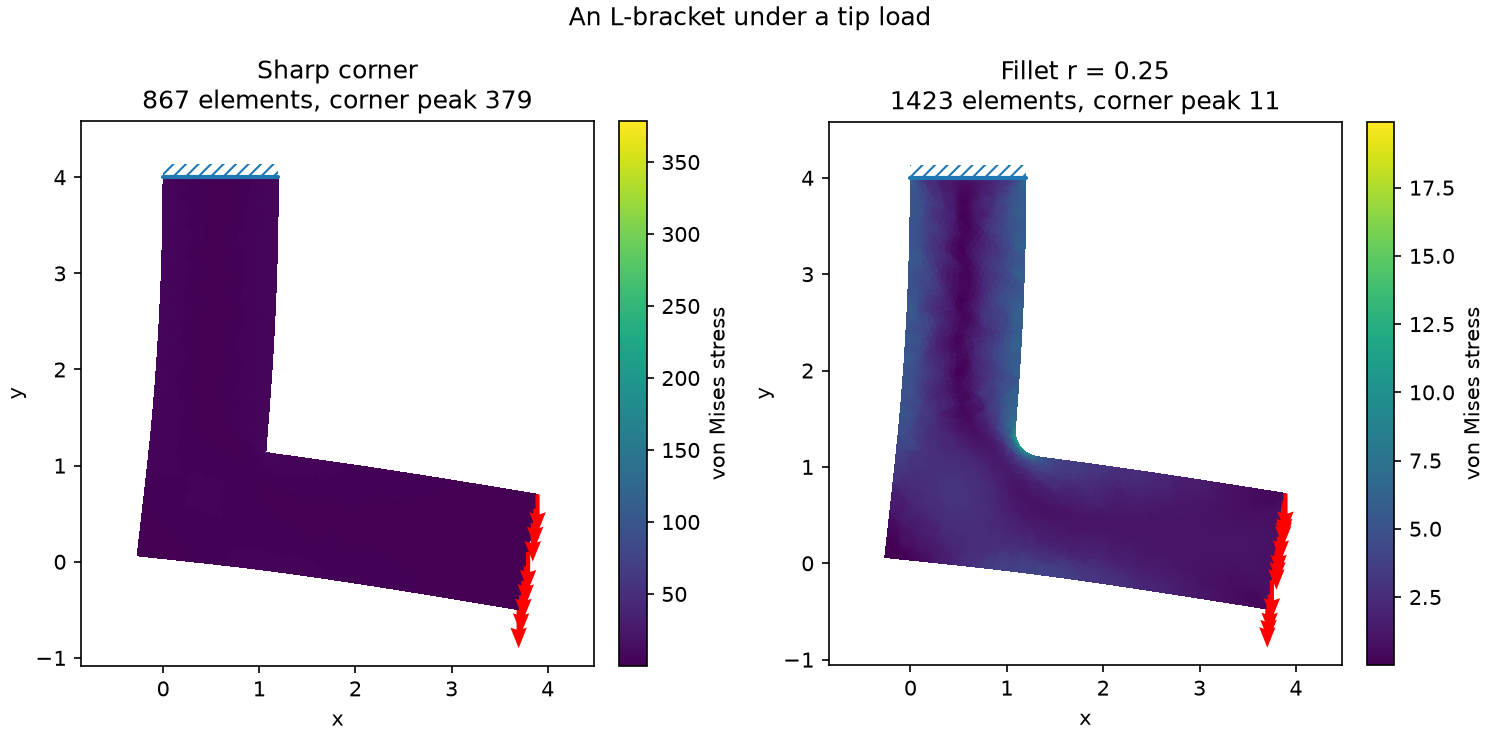
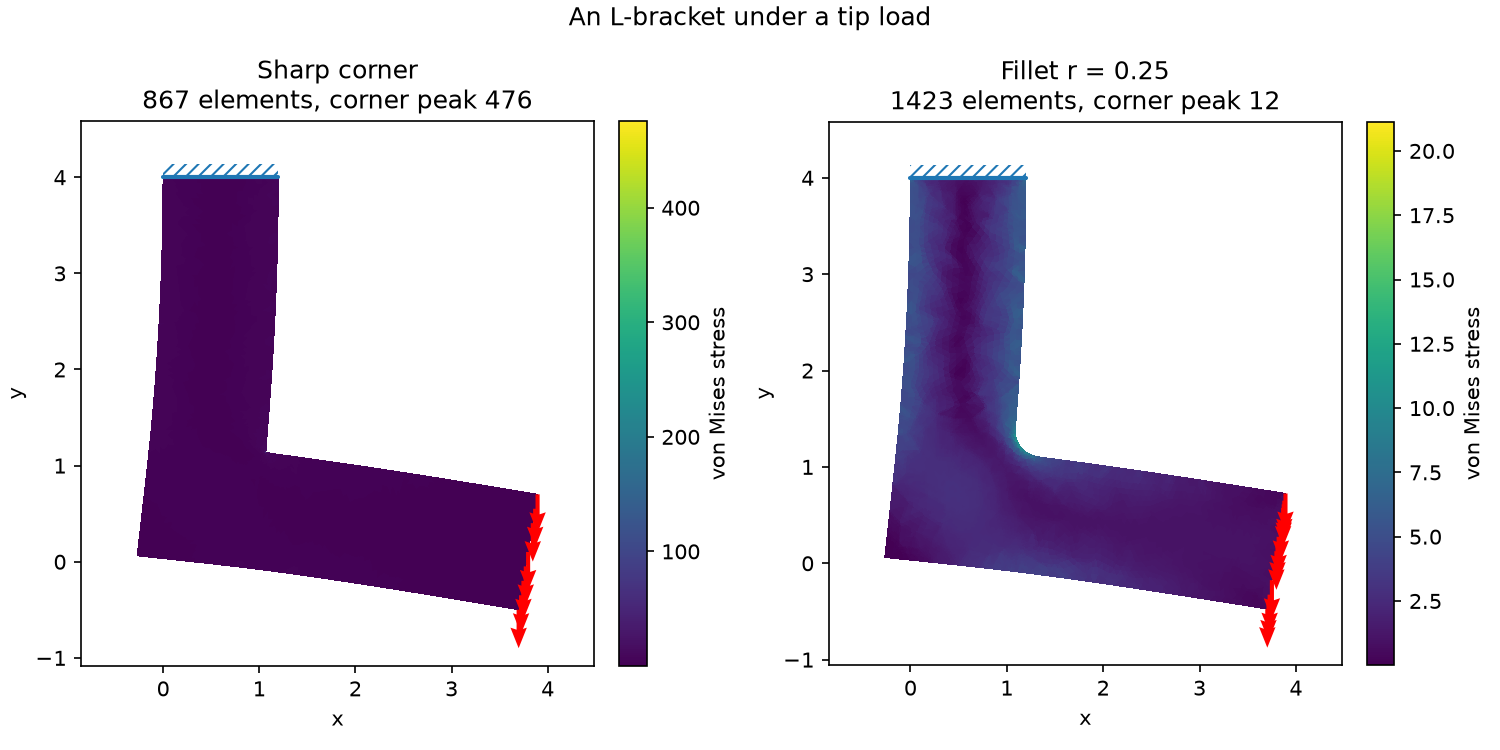
Let Plotter.plot take a Solution, so P2 rendering is the default
Passing a Solution as plot's first argument supplies its own mesh and space, so a P2
or curved solve renders faithfully (on the element tessellation, curved boundaries
following their true curve) without the caller threading space= through by hand. An
explicit space still overrides it, and warp=True deforms by the solution's own
displacement. A raw mesh keeps the low-level, field-agnostic path unchanged.

Adopt it in the bracket demo and switch its recovery to L2 (nodal_von_mises('l2'))
for a smoother field, with the tracked corner peak reading the same recovery so the
number and the colour agree. Figures regenerated.

diff --git a/fem/plot/plotter.py b/fem/plot/plotter.py
@@ -12,6 +12,7 @@ from fem.typing import FloatArray
 if TYPE_CHECKING:
     from fem.boundary import BoundaryConditions
     from fem.mesh.mesh import Mesh
+    from fem.solution import Solution
     from fem.space import FunctionSpace
 
 from fem.plot.helpers import (
@@ -110,7 +111,7 @@ class Plotter:
     # function for plotting at a specific index
     def plot(
         self,
-        mesh: 'Mesh',
+        mesh: "Mesh | Solution",
         values: FloatArray | Sequence[float] | None = None,
         mode: PlotMode | str = PlotMode.MESH,
         idx: tuple[int, int] = (0, 0),
@@ -126,9 +127,15 @@ class Plotter:
         contour: int | None = None,
         space: 'FunctionSpace | None' = None,
         subdivisions: int = 3,
-        warp: 'FloatArray | None' = None,
+        warp: 'FloatArray | bool | None' = None,
     ) -> Any:
         """Draw `values` on `mesh` into the subplot at `idx`.
+
+        `mesh` may be a `Solution` instead of a bare `Mesh`. It then supplies both its mesh
+        and its `space`, so a P2 or curved solve renders faithfully without passing `space=`
+        by hand (an explicit `space` still overrides it), and `warp=True` deforms the field
+        by the solution's own displacement. This is the ergonomic default; a raw mesh keeps
+        the low-level, field-agnostic path below.
 
         `label` names the quantity on the colorbar (colored mode); a colorbar is built
         once per subplot, so it is read on the call that first draws there and ignored
@@ -157,12 +164,17 @@ class Plotter:
         `warp` is an optional nodal displacement `(n_nodes, spatial)` that tessellates the
         deformed configuration, so a P2 stress field draws on the warped shape (the
         higher-order counterpart of plotting on `deformed_mesh()`). Only meaningful with a
-        tessellating `space`.
+        tessellating `space`. Pass `warp=True` (with a Solution as the first argument) to
+        deform by that solution's own displacement.
 
         Returns the recolourable collection for the colored and solid modes (the
         artist an animation updates in place across frames), and `None` otherwise.
         """
         mode = PlotMode(mode)  # accepts PlotMode or its value; unknown raises ValueError
+        # The first argument may be a Solution, which carries its own mesh and space, so
+        # the common "plot my solve" call renders a P2 or curved field faithfully with no
+        # `space=` to remember. A raw mesh keeps the explicit, field-agnostic path.
+        mesh, space, warp = self._resolve_target(mesh, space, warp)
         ax = self.axs[idx]
         if clear:
             ax.clear()
@@ -211,6 +223,30 @@ class Plotter:
         if empty:
             ax.axis('off')
         return artist
+
+    def _resolve_target(
+        self, target: "Mesh | Solution",
+        space: 'FunctionSpace | None', warp: 'FloatArray | bool | None',
+    ) -> "tuple[Mesh, FunctionSpace | None, FloatArray | None]":
+        '''Let `plot`'s first argument be a Solution, not only a Mesh.
+
+        A Solution carries the mesh its field lives on and the space that numbers it, so
+        passing one draws a P2 or curved solve faithfully without the caller threading
+        `space=` through by hand; an explicit `space` still wins. `warp=True` deforms by
+        the solution's own displacement, the common case for an elastic field. A raw mesh
+        is returned unchanged, so the low-level field-agnostic path is untouched.
+        '''
+        from fem.solution import FieldSolution, Solution
+        if not isinstance(target, Solution):
+            if warp is True:
+                raise ValueError('warp=True needs a Solution as the first argument, not a mesh')
+            return target, space, (None if warp is False else warp)
+        resolved_space = space if space is not None else target.space
+        if warp is True:
+            if not isinstance(target, FieldSolution):
+                raise ValueError('warp=True needs a Solution carrying a displacement field u')
+            warp = target.u.reshape(-1, target.n_components)
+        return target.mesh, resolved_space, (None if warp is False else warp)
 
     def overlay_supports(
         self,

diff --git a/tests/test_plotter.py b/tests/test_plotter.py
@@ -434,3 +434,69 @@ def test_warp_tessellates_the_deformed_configuration():
     plotter.plot(mesh, space.node_coords[:, 0], mode='colored', space=space, warp=displacement)
     assert plotter.get_ax().has_data()
     plotter.close()
+
+
+# -- a Solution supplies its own space, so P2 rendering needs no space= ---------
+
+
+def _p2_scalar_solution(n=5):
+    """A ScalarFieldSolution on a P2 space, so its per-node field needs the space to draw."""
+    from fem.solution import ScalarFieldSolution
+    mesh, space = _p2_square(n)
+    u = space.node_coords[:, 0] ** 2
+    return ScalarFieldSolution(mesh, 1, u, flux=np.zeros((len(mesh.elements), 2)),
+                               element_type=QuadraticTriangleElement), space
+
+
+def test_a_solution_supplies_its_own_space():
+    """Passing the solution draws its P2 field faithfully with no `space=`: the same
+    per-node field on the bare mesh (no space) is rejected, so the solution is what
+    carried the space that made it renderable."""
+    solution, space = _p2_scalar_solution()
+    field = solution.u                                         # length n_nodes
+
+    plotter = Plotter(1, 1)
+    plotter.plot(solution, field, mode='colored', idx=(0, 0))
+    assert plotter.get_ax((0, 0)).has_data()
+    plotter.close()
+
+    with pytest.raises(ValueError):
+        Plotter(1, 1).plot(solution.mesh, field, mode='colored')   # bare mesh, no space
+
+
+def test_an_explicit_space_overrides_the_solutions():
+    """A `space=` passed alongside a solution wins, so a caller can still draw the field
+    on a different discretization."""
+    solution, space = _p2_scalar_solution()
+    plotter = Plotter(1, 1)
+    plotter.plot(solution, solution.u, mode='colored', idx=(0, 0), space=space)
+    assert plotter.get_ax((0, 0)).has_data()
+    plotter.close()
+
+
+def test_warp_true_deforms_by_the_solutions_own_displacement():
+    """`warp=True` with a solution draws the field on the shape deformed by that
+    solution's displacement, so an elastic field lands on the warped body with no explicit
+    displacement array."""
+    from fem.solution import ElasticSolution
+    mesh, space = _p2_square()
+    vspace = FunctionSpace(mesh, QuadraticTriangleElement, n_components=2)
+    u = np.column_stack([0.1 * vspace.node_coords[:, 1],
+                         -0.05 * vspace.node_coords[:, 0]]).ravel()
+    n_el = len(mesh.elements)
+    solution = ElasticSolution(mesh, 2, u, strain=np.zeros((n_el, 3, 3)),
+                               stress=np.zeros((n_el, 3, 3)), compliance=np.zeros(n_el),
+                               element_type=QuadraticTriangleElement)
+
+    plotter = Plotter(1, 1)
+    plotter.plot(solution, solution.nodal_von_mises(), mode='colored', idx=(0, 0), warp=True)
+    assert plotter.get_ax((0, 0)).has_data()
+    plotter.close()
+
+
+def test_warp_true_needs_a_solution_not_a_bare_mesh():
+    """`warp=True` has no displacement to read off a raw mesh, so it is rejected rather
+    than silently drawing the undeformed shape."""
+    mesh, space = _p2_square()
+    with pytest.raises(ValueError, match='warp=True needs a Solution'):
+        Plotter(1, 1).plot(mesh, space.node_coords[:, 0], mode='colored', space=space, warp=True)

diff --git a/examples/solver_demos.py b/examples/solver_demos.py
@@ -683,9 +683,10 @@ def demo_bracket(arm=4.0, width=1.2, fillet_radius=0.25, traction=0.4, E=300.0, 
     def corner_peak(solution):
         # The von Mises peak near the inner corner alone, kept clear of the clamp's own
         # concentration at the far top so the comparison is about the corner. Read from the
-        # recovered nodal field (recover-then-reduce), the smooth P2 stress at the nodes.
+        # L2-recovered nodal field (recover-then-reduce), the same smooth field the panels
+        # draw, so the tracked peak and the plotted colour agree.
         space = solution.space
-        nodal_vm = solution.nodal_von_mises()
+        nodal_vm = solution.nodal_von_mises(method='l2')
         near = np.linalg.norm(space.node_coords - corner, axis=1) < 0.8 * width
         return float(nodal_vm[near].max())
 
@@ -732,15 +733,15 @@ def demo_bracket(arm=4.0, width=1.2, fillet_radius=0.25, traction=0.4, E=300.0, 
     for i, (name, mesh, solution, peaks) in enumerate((
             ('Sharp corner', sharp_mesh, sharp, sharp_peaks),
             (f'Fillet r = {fillet_radius:g}', round_mesh, rounded, round_peaks))):
-        # P2-aware render: the recovered nodal von Mises drawn on the element tessellation,
-        # warped by the nodal displacement so the quadratic field shows on the deformed shape.
-        warp = solution.u.reshape(-1, 2)
-        fields.plot(mesh, solution.nodal_von_mises(), mode='colored', idx=(0, i),
-                    space=solution.space, warp=warp, label='von Mises stress',
+        # P2-aware render: passing the solution pulls its space (the tessellation), the
+        # L2-recovered nodal von Mises is the smooth field, and warp=True draws it on the
+        # deformed shape.
+        fields.plot(solution, solution.nodal_von_mises(method='l2'), mode='colored',
+                    idx=(0, i), warp=True, label='von Mises stress',
                     title=f'{name}\n{len(mesh.elements)} elements, corner peak {peaks[-1]:.0f}')
         # Clamp and tip-load glyphs read off the undeformed mesh, drawn at the deformed
         # vertex positions so the load follows the tip it pulls on.
-        deformed_vertices = mesh.vertices + warp[:len(mesh.vertices)]
+        deformed_vertices = mesh.vertices + solution.u.reshape(-1, 2)[:len(mesh.vertices)]
         fields.overlay_supports(mesh, make_bc(), idx=(0, i), coords=deformed_vertices)
 
     sweep = Plotter(1, 1, title='The corner peak against mesh refinement')
